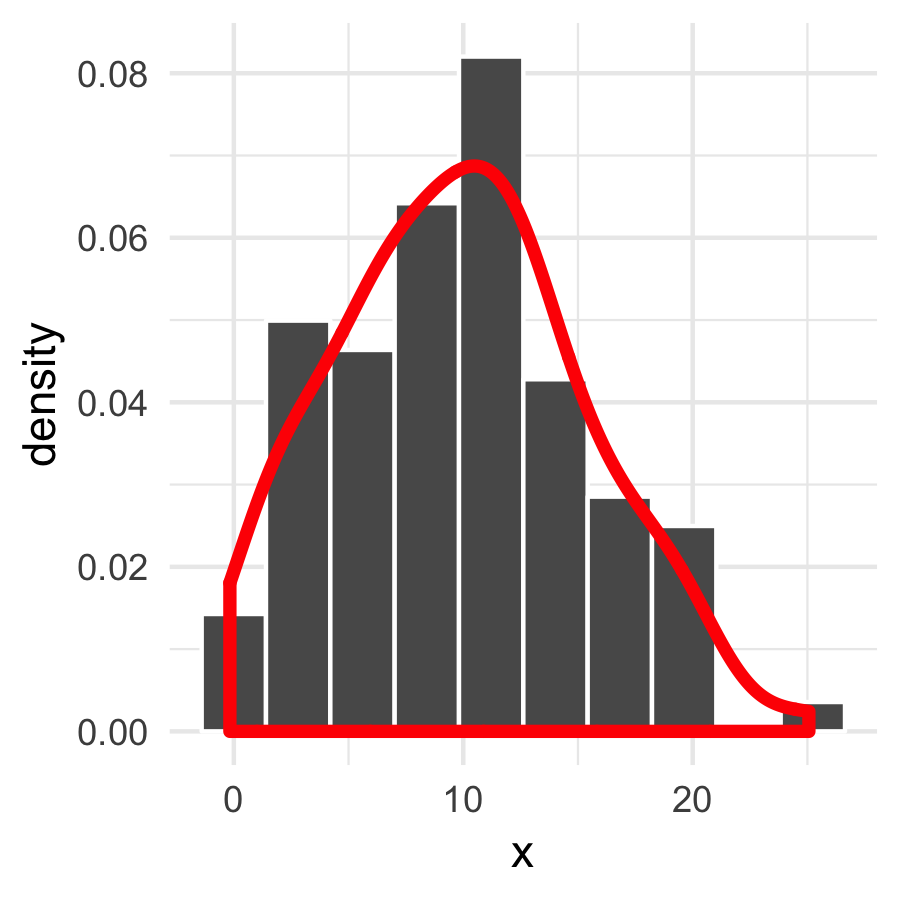
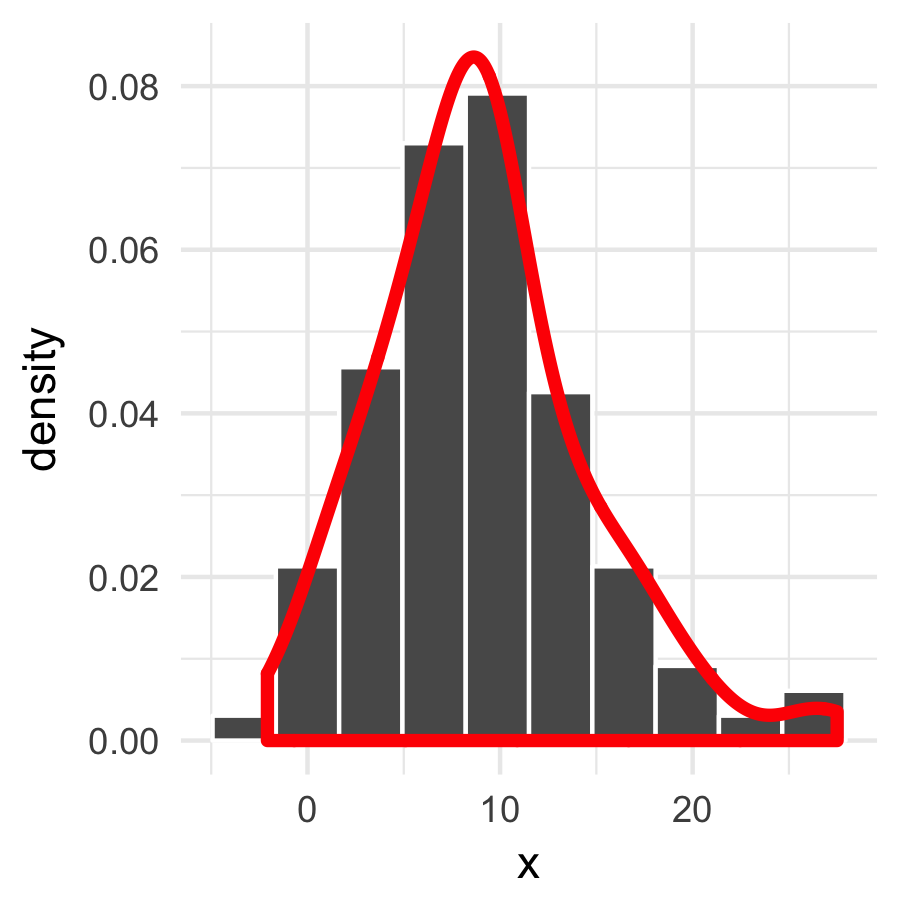
minor

diff --git a/_sessions/Statistics/Statistics.html b/_sessions/Statistics/Statistics.html
@@ -94,15 +94,15 @@ t.test(formula = height ~ sex,
          data = baselers)
 
 # Regression model
-income_glm &lt;- glm(formula = income ~ .,
-                  data = baselers %&gt;% select(-id))
+inc_glm &lt;- glm(formula = income ~ .,
+               data = baselers %&gt;% select(-id))
 
 # Summary information
-summary(income_glm)  
+summary(inc_glm)  
 
 # Dissect
-income_glm$coefficients # Acess coefficients
-income_glm$residuals # Access residuals
+inc_glm$coefficients # Acess coefficients
+inc_glm$residuals # Access residuals
 
 ### Generate random data
 x1 &lt;- rnorm(n = 100, mean = 10, sd = 5)
@@ -849,7 +849,7 @@ coin_flips
 ```
 
 ```
-##  [1] "H" "H" "H" "H" "H" "H" "H" "H" "H" "T"
+##  [1] "H" "H" "H" "H" "H" "H" "T" "H" "T" "H"
 ```
 
 ```r
@@ -860,7 +860,7 @@ table(coin_flips)
 ```
 ## coin_flips
 ## H T 
-## 9 1
+## 8 2
 ```
 
 ```r
@@ -869,7 +869,7 @@ mean(coin_flips == "H")
 ```
 
 ```
-## [1] 0.9
+## [1] 0.8
 ```
 
 ]
@@ -904,7 +904,7 @@ length(birthdays)
 ```
 
 ```
-## [1] 25
+## [1] 49
 ```
 
 
@@ -931,7 +931,7 @@ mysamp[1:5]  # First 5 values
 ```
 
 ```
-## [1] 13.575 19.442  8.958 16.348  7.552
+## [1] 12.780 -2.081  8.015 11.006  1.539
 ```
 
 ```r
@@ -939,7 +939,7 @@ mean(mysamp) # Mean
 ```
 
 ```
-## [1] 9.862
+## [1] 9.091
 ```
 
 ```r
@@ -947,7 +947,7 @@ sd(mysamp)   # Standard deviation
 ```
 
 ```
-## [1] 5.35
+## [1] 5.475
 ```
 
 
